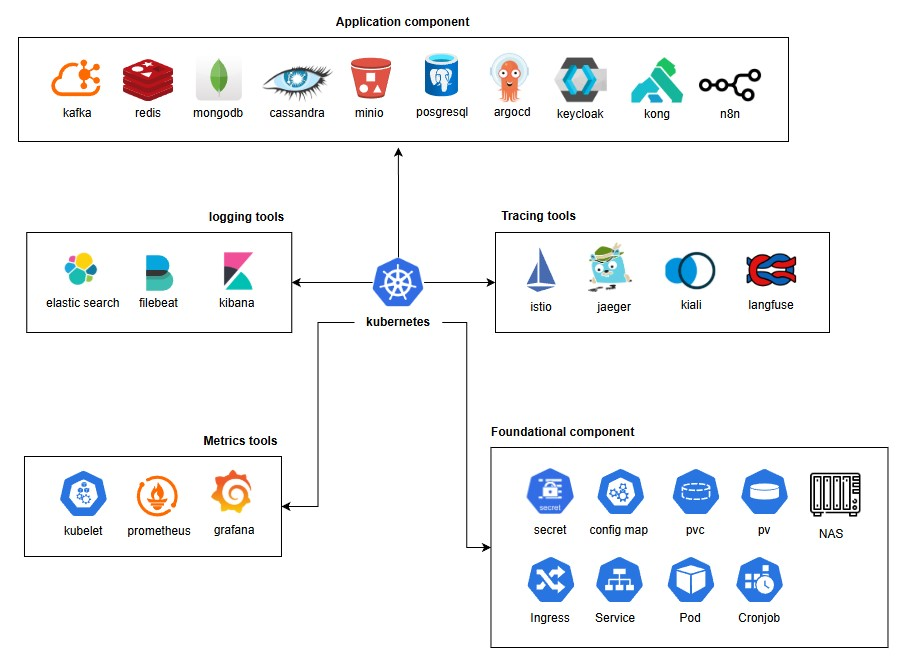
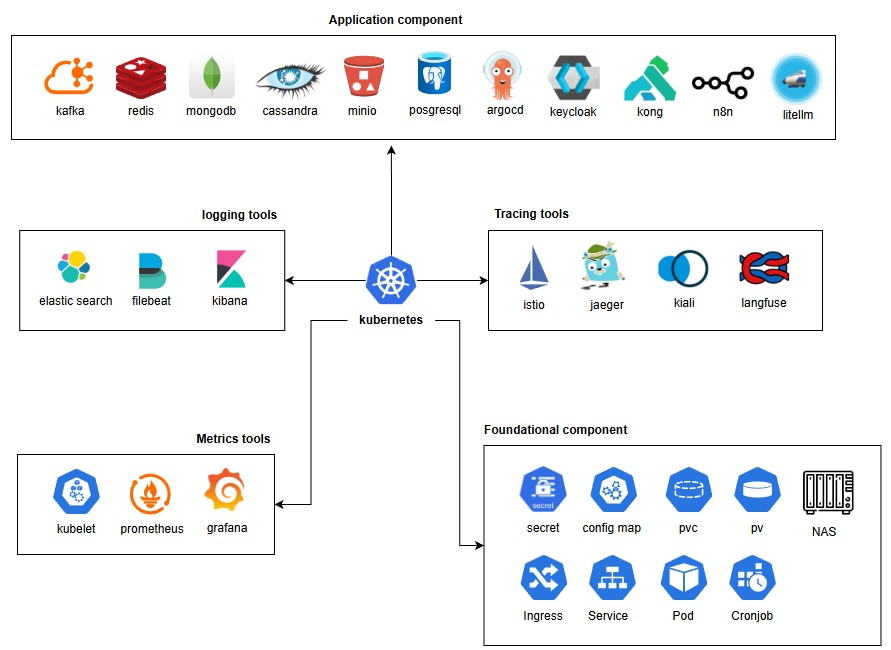
feat/litellm: build resource

diff --git a/README.md b/README.md
@@ -7,6 +7,7 @@ This repository provides a comprehensive set of examples for setting up a Kubern
 [Live Demo for Matrics](https://grafana.mydormroom.dpdns.org/)  
 [Live Demo for Logging](https://kibana.mydormroom.dpdns.org/)  
 [Live Demo for Service Tracing](https://kiali.mydormroom.dpdns.org/)  
+[Live Demo for LLM Gateway](https://litellm.mydormroom.dpdns.org/)  
 [Live Demo for LLM Tracing](https://langfuse.mydormroom.dpdns.org/)  
 [Live Demo for Postgresql](https://adminer.mydormroom.dpdns.org/)  
 [Live Demo for Minio](https://minio.mydormroom.dpdns.org/)  
@@ -70,6 +71,16 @@ Centralized log management is crucial for troubleshooting and behavior analysis.
 - **Elasticsearch**: A distributed search and analytics engine for storing and indexing all logs.
 - **Filebeat**: A lightweight log shipper designed to collect logs from servers, containers, and Kubernetes workloads, and forward them to Elasticsearch or Logstash for centralized logging and analysis.
 - **Kibana**: A log visualization and query tool that allows users to easily explore log data in Elasticsearch.
+
+## Gateway
+
+This repository also includes common gateway, which you can use directly or as a reference for your own applications.
+
+### **Litellm**
+
+An LLM Gateway is a middleware layer that sits between applications and large language model providers such as OpenAI, Anthropic, or Ollama. It provides a unified API, handles authentication and access control, manages traffic and rate-limits, logs usage, routes requests across different models, and tracks costs. By centralizing these functions, an LLM Gateway makes it easier for developers and organizations to switch models, improve reliability, and manage security and operations more effectively.
+
+![LLM gateway](./images/litellm.jpg)
 
 ## Deployed Application
 
